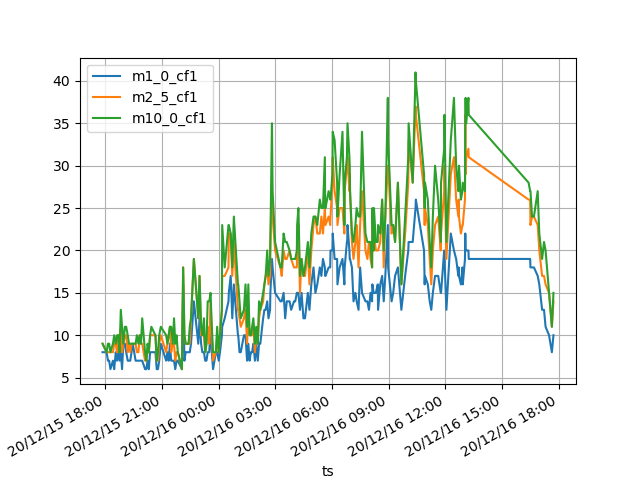
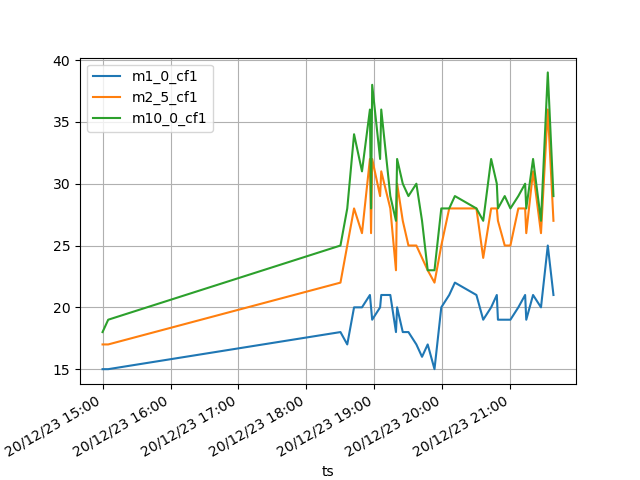
create_chart.py updated.

diff --git a/create_chart.py b/create_chart.py
@@ -4,9 +4,9 @@ import matplotlib.pyplot as plt
 import sqlite3
 import pandas
 import matplotlib.dates as md
+plt.rcParams['timezone'] = 'Mexico/General'
 
-
-cmd_sql = r"select  *,datetime(ts,'unixepoch','localtime')  from measurements2 where ts >= (select strftime('%s',(select datetime('now','-24 hour'))))"
+cmd_sql = r"select  *,datetime(ts,'unixepoch','localtime')  from measurements2 where ts >= (select strftime('%s',(select datetime('now','-8 hour','localtime'))))"
 
 db = sqlite3.connect("air_quality.db")
 df = pandas.read_sql_query(cmd_sql, db)
